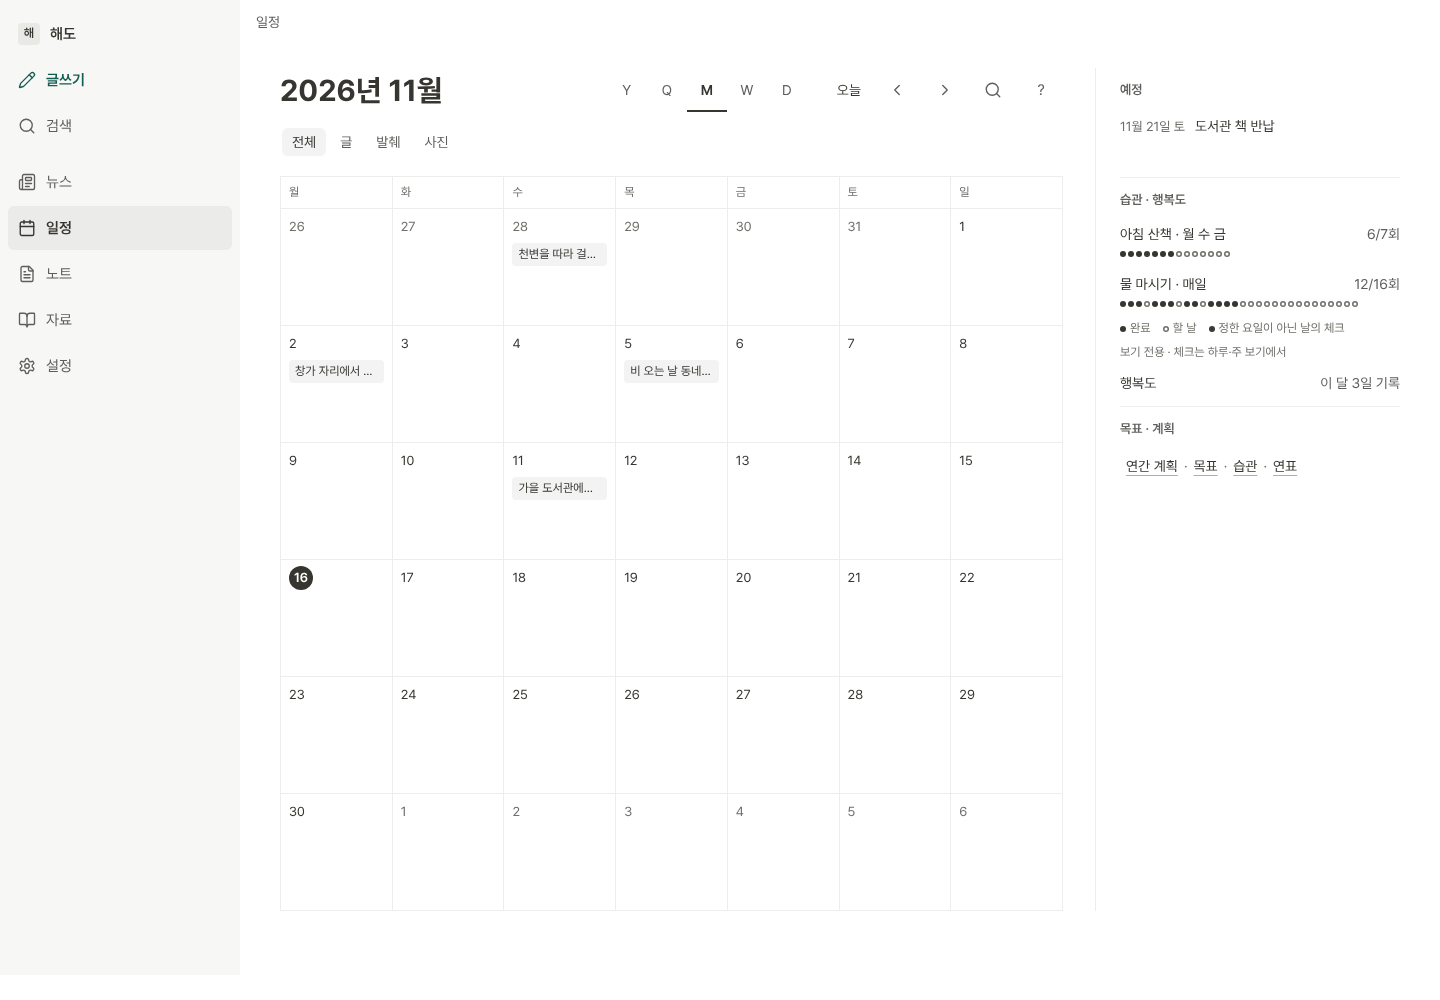
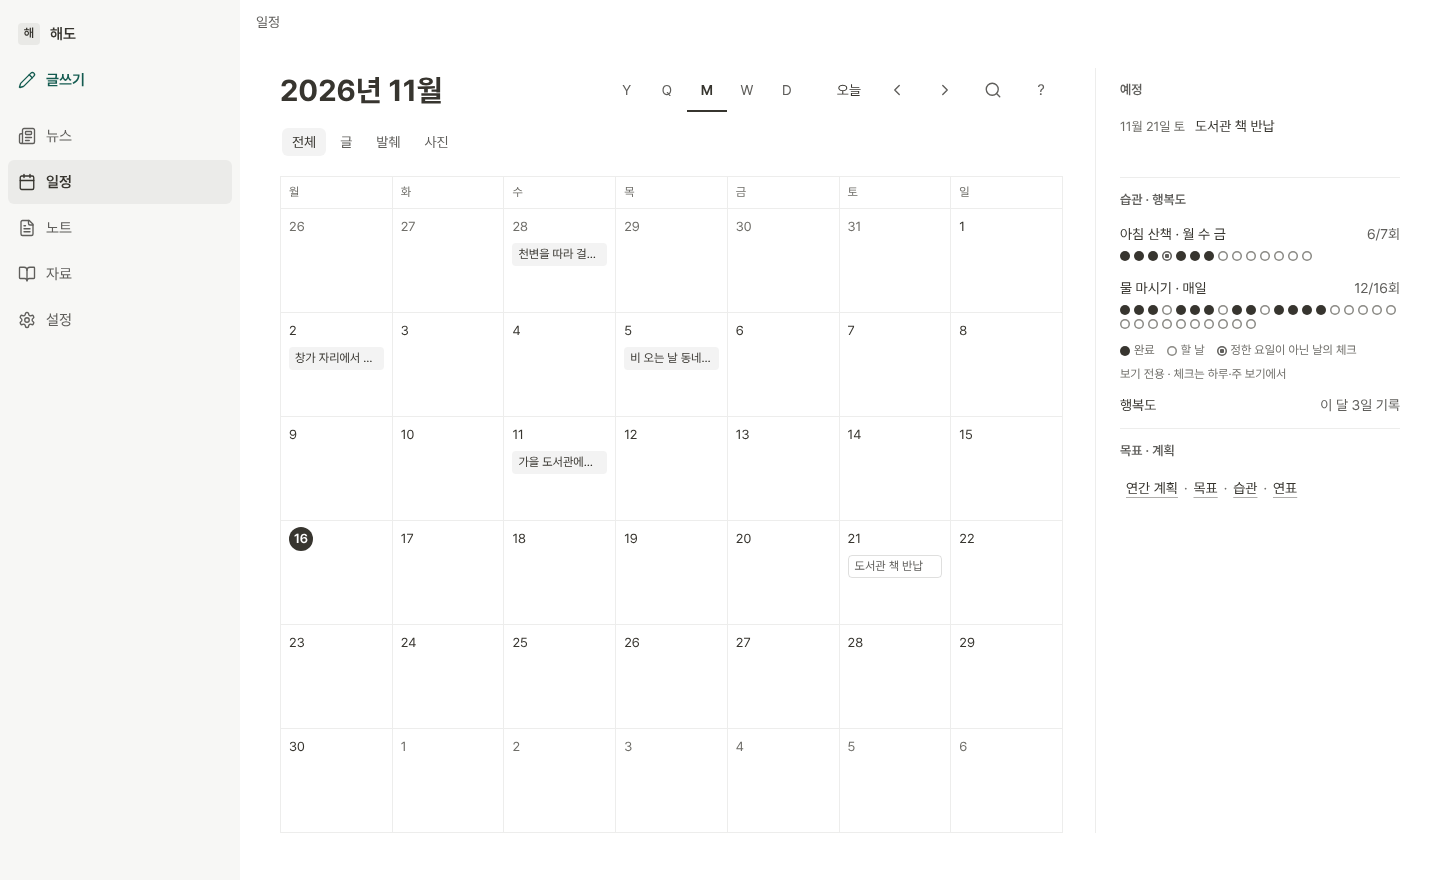
docs: 노션 방향 구현 계약 — 2차 검수 반영 (공개 페이지 범위, 배포 두 단계, 시안 PNG 정정)
- 공개 페이지 보호: 모양을 바꾸는 규칙은 haedo-shell.css나 body.haedo-shell 범위로,
  ui.css에는 대체값만.
- 시안 PNG: 메뉴의 검색 항목 제거, 1440 노트의 내 글 찾기 입력칸, 데스크톱 읽기 뒤로 버튼,
  자료 행 날짜·시각을 꼬리표 줄 끝으로, 습관 점 10px·상태 셋, 월 칸 예정 꼬리표.
  문장이 PNG보다 우선한다고 명시.
- W2 파일은 notes-menu 파일 전부 + 시각 파일, W3에 ui.js:2686 한 줄, 틸 재분류 주체,
  노트 행 시각 기준, 월 칸 이름은 dayLabel 그대로, 320px 읽기 도구, 배포 두 단계와 CACHE.

Claude-Session: https://claude.ai/code/session_01GFNZYifi77pdz4rK7ARgPc

diff --git a/docs/design-review/notion-visual-contract.md b/docs/design-review/notion-visual-contract.md
@@ -8,12 +8,15 @@
 - **시안:**
   - 저장소: [notion-direction/](notion-direction/)의 `mock-*.png` 8장
   - 비교 화면: Design 캔버스 「해도 노션 방향 시안」(소유자 계정의 비공개 artifact). 지금 화면과 시안을 나란히 둔다.
+  - **이 문서의 문장이 PNG보다 우선한다.** 그림의 문구·숫자는 예시다.
 - **다른 계약과의 관계:**
   - 화면 구조(메뉴 5칸, 노트, 일정은 달력만, 주소)는 [노트 메뉴·일정 정리 계약](notes-menu.md)을 따른다. 이 문서는 그 위에 입히는 **시각 규칙**이다.
   - 둘이 어긋나면 구조는 notes-menu, 모양은 이 문서를 따른다.
   - 11-02 글쓰기·읽기 결정([write-read-redesign](write-read-redesign.md), [expert-design-brief](expert-design-brief.md) 결정표)과 11-08 계약 중 남은 것(계획 화면 틀, 저장 상태 문구, 화면의 날짜)은 그대로다.
-- **독립 검수:** 첫 초안(`1522d97`)을 다른 에이전트가 검수했다. MAJOR 10·MINOR 13·NIT 4건이 나왔고 모두 이 판에 반영했다.
-  - 이 판은 그 검수를 반영한 판이다. 작업자에게 넘기기 전에 총괄이 한 번 더 확인한다.
+- **독립 검수:** 다른 에이전트가 두 번 검수했다.
+  - 1차(`1522d97`): MAJOR 10·MINOR 13·NIT 4건 → 반영
+  - 2차(`ce98036`): 앞 27건 중 22건 해결·5건 부분, 새 MAJOR 2·MINOR 7·NIT 4건 → 모두 이 판에 반영
+  - 작업자에게 넘기기 전에 총괄이 한 번 더 확인한다.
 
 ## Designer 기본값 (소유자가 바꿀 수 있음)
 
@@ -43,7 +46,7 @@
   - 저장 형식·동기화·공개·백업 로직과 데이터 키
   - 문구의 뜻(보존 문구), 행동의 추가·삭제·이름 바꾸기
   - 노션 기능, 움직임 규칙(`haedo-motion`)
-  - `sw.js` CACHE 판올림(총괄이 병합 때 한다)
+  - `sw.js` CACHE 판올림(총괄이 배포 때 한다)
 
 ## 토큰 (`assets/haedo-shell.css` `:root`, `assets/haedo-type.css`)
 
@@ -80,11 +83,13 @@
   - 검색 칸 안쪽 입력은 `border:0`(`ui.css:91`)이라 바깥 칸이 `--field-line` 테두리를 가져야 한다.
 - **`--soft` 사용처 점검:** 셸에서 `--soft`는 `--haedo-selected`를 가리킨다(`haedo-shell.css:10`). 눌림·현재·일치 표시(`ui.css:58,98,109,116,124,202,349,357`, `workbench.css` 여러 곳)가 함께 옅어진다.
   - 각 사용처를 분류해 보고한다: 두 번째 표시를 더할 곳, `--haedo-mark`로 갈 곳, 그대로 둘 곳.
-- **틸 사용처 분류:** `var(--color-primary)` 136곳과 `var(--haedo-accent)` 36곳을 아래 "틸 규칙"에 따라 "유지 / 먹색으로"로 나눈 표를 만들어 보고한다.
+- **틸 사용처 분류:** `var(--color-primary)` 136곳과 `var(--haedo-accent)` 36곳을 아래 "틸 규칙"에 따라 "유지 / 먹색으로"로 나눈 표를 만든다.
+  - 표는 W1이 만들고, W1은 자기 파일만 고친다. W2–W4는 자기 담당 파일에서 표대로 고치고, 나머지는 W5가 고친다.
   - 링크의 실제 색은 `ui.css:23` `a{color:var(--color-primary)}`이다. 글 안 링크만 먹색 + 밑줄(`rgba(55,53,47,.4)`, 오프셋 4px)로 바꾼다. 행·메뉴 모양의 링크는 행 규칙을 따른다.
 - **공개 페이지 보호:**
-  - 공개 페이지는 `ui.css`만 읽고 `haedo-shell.css`는 읽지 않는다. 그래서 새 값은 `haedo-shell.css`에만 둔다.
-  - `ui.css`의 별칭은 지금 값을 대체값으로 유지한다(예: `var(--haedo-canvas, #f4f6f5)`). 대체값 없는 `var(--haedo-*)`로 바꾸지 않는다.
+  - 공개 5쪽은 `ui.css`만 읽고 `haedo-shell.css`는 읽지 않는다. `body`에 `haedo-shell` 클래스도 없다(`blog.html`·`series.html`·`share.html`은 맨 `<body>`, `cover.html`은 `public-cover-page`, `taste.html`은 `nine-public-page`).
+  - 그래서 **모양을 바꾸는 규칙은 `haedo-shell.css`에 두거나 `ui.css` 안에서 `body.haedo-shell` 범위로 쓴다.** 위의 `a` 색, `--soft` 사용처, `mark`가 모두 여기에 해당한다.
+  - `ui.css`의 범위 없는 규칙에는 대체값만 더한다. 예: `var(--haedo-mark, <지금 값>)`, `var(--haedo-canvas, #f4f6f5)`. 대체값 없는 `var(--haedo-*)`로 바꾸지 않는다.
   - 공개 검사(`blog-public-browser`, `public-cover-visual-browser --prepare-database`, `nine-public-browser`, `blog-series-public-browser`)와 전·후 캡처로 공개 화면이 바뀌지 않았음을 보인다.
 
 ## 틸 규칙
@@ -124,12 +129,12 @@
   - 현재 칸은 먹색 600이고 나머지는 `--haedo-meta` 400이다. 아이콘 20px, 라벨 12px.
   - 각 칸 44px 이상이고 320px에서 라벨이 잘리지 않아야 한다(지금 좌우 여백 `max(12px,…)` 기준, notes-menu 문장과 같다).
 - **노트 아이콘:**
-  - Lucide 1.51.0 `file-text`를 새로 넣는다.
+  - Lucide 1.51.0 `file-text`를 새로 넣는다. `icons.js`의 글리프 이름은 `note`로 정한다. W1이 넣고, W2는 메뉴 항목에 `glyph: 'note'`로 쓴다.
   - `vendor/lucide/icons/`에 원본 SVG를 두고, `vendor/lucide/UPSTREAM.json`의 `files`(또는 `npm_subset.files`)에 SHA-256과 함께 적는다. 그래야 `tests/icons.test.cjs`가 통과한다.
   - 판에 그 아이콘이 없으면 Designer에 알리고 멈춘다. 다른 판에서 가져오지 않는다.
 - **머리줄:**
   - **데스크톱:** 머리줄 높이 44px. 왼쪽은 경로(14px `--haedo-muted`, 예: `노트 › 빛이 길게 머무는 오후`)이고, 오른쪽은 행동이다. 화면 제목은 본문 맨 위 큰 제목(`--haedo-text-page-title`, 700)이다.
-  - **760px 이하:** 지금처럼 한 줄 머리(제목 28px 700 + 오른쪽 아이콘)다.
+  - **1100px 이하(좁은 세로 메뉴·iPhone):** 지금처럼 한 줄 머리(제목 28px 700 + 오른쪽 아이콘)다.
   - **머리 오른쪽 아이콘은 `글쓰기`를 빼고 최대 3개다:** [화면 고유 행동 0–1개] · `통합 검색`(`#lifeFindOpen`, 이름 그대로) · `⋯`. 나머지 행동은 `⋯`로 옮기고 지우지 않는다.
   - 일정의 단위 탭·`오늘`·`‹ ›`는 이 상한 밖의 탐색 묶음이다. `단축키 (?)`(`schedule-ui.js:686`)는 데스크톱에서 유지한다(키보드 도움말 보존).
   - iPhone의 `글쓰기`는 늘 맨 오른쪽이다.
@@ -145,7 +150,7 @@
   - 제목 16px 600(최대 2줄), 발췌 14px `--haedo-muted`(데스크톱 1줄·iPhone 2줄), 메타 한 줄 13px `--haedo-meta`, 행 사이 1px 선이다.
   - 행에 따로 할 일이 있으면 오른쪽 `⋯` 하나로 모은다.
 - **날짜 머리:** 13px 500 `--haedo-muted`, 위 28px.
-- **빈 상태:** 표나 상자 없이 한 줄 문장(14px `--haedo-meta`)과, 있으면 링크 하나다.
+- **빈 상태:** 표나 상자 없이 한 줄 문장(14px `--haedo-meta`)과, 있으면 행동 하나(링크, 또는 노트의 `첫 글 쓰기` 버튼)다.
 - **메뉴(`⋯`)·시트:**
   - 흰 바탕, 1px 선, 그림자 `0 0 0 1px rgba(15,15,15,.05), 0 3px 6px rgba(15,15,15,.1), 0 9px 24px rgba(15,15,15,.2)`, 모서리 8px, 항목 44px.
   - **초점 복귀:** `⋯` 안으로 옮긴 조작은 Esc나 실행 뒤 초점을 **그 `⋯` 버튼**(행 메뉴면 그 행의 제목 버튼)으로 돌린다.
@@ -159,26 +164,31 @@
   - 그 아래 `작성하던 글 · 제목 · 이어쓰기` 한 줄을 `--haedo-soft` 바탕으로 둔다.
   - 그다음 날짜 머리(처음 쓴 날, 결정 8)와 행이 온다.
   - 머리는 `통합 검색` · `글 메뉴`(⋯: 글 공개·보관, 계정 보관 상태, 프로필 편집)와 iPhone `글쓰기`다.
-  - 행 메타는 시각 + 공개 표시 문구 그대로다.
+  - 행 메타는 `처음 쓴 시각 · (나중에 고친 글이면 지금 문구 그대로 `수정 11월 11일`) · 공개 표시 문구`다. 날짜 머리와 같은 기준(결정 8)이다.
+    - 지금 왼쪽 시각 칸은 `updatedAt`(`home.js:358`)이라 바뀐다. notes-menu 작업자가 이 기준으로 함께 정하고, 다르게 정하면 Designer에 알린다.
+  - 데스크톱의 `내 글 찾기`는 탭 줄 오른쪽의 입력칸이다(761px 이상 입력칸, `DESIGN.md` 홈 절과 11-08 S3). 760px 이하는 지금처럼 탭 옆 조작으로 펼친다. 돋보기 아이콘은 머리의 `통합 검색` 하나다.
 - **일정(모든 단위 같은 틀):**
   - **데스크톱 머리:** 제목(`2026년 11월` 등), 단위 글자 탭, `오늘`, `‹ ›`, `통합 검색`, `단축키 (?)`. 그 아래 거르기 `전체 · 글 · 발췌 · 사진`, 본문, 옆 칸(280px, 왼쪽 1px 선)이 온다.
   - **M 칸:**
     - 1px 선 격자, 칸 높이 104px, 날짜 13px. 오늘은 24px 먹색 원에 흰 글자다.
-    - 칸 전체가 하나의 링크(44px 이상)다. **접근 이름은 지금 `dayLabel`(요일·예정 수·선택·오늘, `schedule-ui.js:428-443`) 그대로**에 글 수만 더한다.
+    - 칸 전체가 하나의 링크(44px 이상)다. **접근 이름은 지금 `dayLabel` 그대로**다(`schedule-ui.js:428-443`). 이미 요일·글·발췌 수(`schedule-data.js` `countLabel`)·예정 수·선택·오늘을 담으므로 더하지 않는다.
     - 칸 안의 글·예정 줄(`:452-454`)은 회색 꼬리표 모양이고 따로 누르지 않는다.
   - **iPhone:**
     - 단계 막대가 없다(소유자 결정). `‹ 2026`(연으로), `통합 검색`, `글쓰기`가 한 줄이고, 제목과 `오늘 ‹ ›`가 한 줄이다.
     - 날짜 44px, 오늘 32px 먹색 원, 글 있는 날 4px 먹색 점이다.
   - **옆 칸 순서:** `예정 → 습관 · 행복도 → 목표 · 계획`(notes-menu).
   - **월 보기 습관 표**(`habit-tracker.js` `renderCompact`, `habit-tracker.css`):
-    - 지금 상태값 셋을 그대로 쓴다. `done` 채움, `planned` 1.5px `--haedo-meta` 테두리, `kept` 테두리 + 가운데 점. 과거/미래를 새로 나누지 않는다.
+    - 지금 상태값 셋과 점 크기 10px(`habit-tracker.css:69`)를 그대로 쓴다. `done` 먹색 채움, `planned` 1.5px `--field-line` 테두리, `kept` 1.5px `--haedo-muted` 테두리 + 가운데 4px 점이다. 과거/미래를 새로 나누지 않는다.
     - 범례 문구는 그대로다(`완료` · `할 날` · `정한 요일이 아닌 날의 체크`). 여기에 `보기 전용 · 체크는 하루·주 보기에서`를 더한다(결정 13).
 - **글 읽기(11-02 결정과 D1 배치 유지):**
   - **도구 줄:** 한 줄이다. `뒤로` · 공개 알약(Lucide `lock`, 지금 `글 정보` 동작과 문제 표시 그대로) · `수정`(숨긴 글이면 `목록에 다시 보이기`) · `통합 검색` · `⋯` · iPhone `글쓰기`.
-    - 머리줄 통합은 이미 코드에 있다(`ui.js:2678-2688`, `13ba336`). 다시 만들지 않는다.
+    - 데스크톱도 `뒤로` 버튼(지금 돌아가기 버튼, 이름 그대로)을 두고, 그 오른쪽에 경로를 둔다.
+    - 360px 미만에서는 `수정`을 아이콘(`edit`)만으로 보이고 이름 `수정`은 유지한다. 그래야 320px에서도 한 줄이다.
+    - 머리줄 통합은 이미 코드에 있다(`ui.js:2678-2688`, `13ba336`). 다시 만들지 않는다. 다만 `통합 검색`이 `⋯` 뒤에 붙는 한 줄(`ui.js:2686`의 append)은 W3가 `⋯` 앞으로 고친다. 이 한 줄만 W3 담당이다.
     - 지금 줄에 따로 보이는 `사진 포함 백업`은 `⋯` 안으로 옮긴다. 순서는 `사진 포함 백업` → (지금 메뉴 항목) → `삭제`(맨 아래)다.
   - **본문:** 제목 바로 아래 본문이다. **제목과 본문 사이에는 아무것도 두지 않는다.** 제목은 편집기와 같은 28px다.
   - **글 끝 줄:** 1px 선 아래에 지금처럼 날짜(`updatedAt`), `숨긴 글`·`초안` 표시, 저장 상태(`#photoServerStatus`, role=status)와 `다시 시도`, `내 글로 돌아가기`를 둔다. 모양만 새 토큰을 쓰고 버튼은 44px이다.
+    - 평소 저장 상태(`저장됨 · 계정에 올림`)를 글 끝에 늘 보이는 것은 D1의 판단이다. 11-02 시안의 "평소 숨김"(`write-read-redesign.md:42`)과 다르지만 이번에는 바꾸지 않는다.
 - **자료:**
   - **머리:** `가져오기`(이름 그대로) · `통합 검색` · `⋯`(`기록 선택`, 폴더 관리) · `글쓰기`.
     - 데스크톱 `가져오기`는 지금처럼 라벨이 붙고, iPhone은 아이콘만이다.
@@ -186,7 +196,7 @@
   - **탭과 개수 줄:**
     - 탭 `전체 N · 원문 · 발췌 · 기사` 오른쪽에 폴더 선택을 둔다.
     - **개수 줄 `#lifeSearchCount`(role=status)는 그대로 두고** 탭 아래 13px 메타로 모양만 바꾼다. 다음 문구가 모두 남아야 한다: `· 최신 버전`·`· 일치한 버전별 결과`·원천·`· 한글 띄어쓰기 무시`·`· N개 표시`.
-  - **행:** 제목 1줄, 발췌 2줄, 꼬리표 줄, 오른쪽 `⋯`(`자료 출처 정보`, 폴더)다.
+  - **행:** 제목 1줄, 발췌 2줄, 꼬리표 줄, 오른쪽 `⋯`(`자료 출처 정보`, 폴더)다. 왼쪽 날짜·시각 칸(`RecordsList.when`)은 내용 그대로 꼬리표 줄 끝으로 옮긴다. 날짜 머리로 묶지 않는다.
     - 꼬리표 줄에는 원천과 **사실 표시를 모두 남긴다**: `본문 일부`·`본문 미확보`·`범위 미확인`, `버전 n/m`, `이전 버전`, `제목 일치`, `저장한 문장·메모 일치`(`ui.js:4111-4116`, `:4352-4362`).
     - 문장·메모 목록도 그대로다. URL만 있는 자료를 본문 확보로 보이지 않는다.
 - **뉴스·설정:**
@@ -222,13 +232,17 @@
 
 | 단위 | 맡을 곳 | 파일 | 선행 | 고칠 검사(알려진 것) |
 | --- | --- | --- | --- | --- |
-| **W1 바탕·토큰** | Designer 구현 · 다른 에이전트 검수 | `haedo-shell.css`, `haedo-type.css`, `ui.css`(토큰 별칭·채움 이전·`a` 색·`--soft` 사용처), `home.css`·`workbench.css`의 채움 줄만, `icons.js`, `vendor/lucide/`(`file-text`), `DESIGN.md`(`:143`·`:145`·`:174`·`:186` 등 틀·색 문장), `.impeccable/design.json` | 없음 | `unified-home-browser.cjs:442`(글쓰기 흰 글자·틸 바탕), `app-motion-browser.cjs:160`(현재 탭 750·틸), `habit-tracker-browser.cjs:118`·`:135`·`:298`(옛 먹색 `rgb(24, 37, 34)`·750), `sns-blog-experience-browser.cjs:105`(메뉴 폭 216), `tests/icons.test.cjs` |
-| **W2 노트·일정 본문** | notes-menu 작업자(구조와 한 번에, **커밋은 구조 → 시각으로 나눈다**) | `home.js`, `home.css`(W1 줄 제외), `schedule.css`, `schedule-entries.js`, `schedule-ui.js`, `schedule-data.js`, `habit-tracker.js`, `habit-tracker.css`, `haedo-navigation.js`, `ui.js` `renderHeader`의 노트·일정 가지(`scheduleParts`, `글 메뉴` 위치) | W1 | `life-naver-capture-browser.cjs:509`(`.home-post-read` → 제목 버튼), `.home-post-media`를 쓰는 `home-refinement`·`home-startup-performance`·`post-markdown-thumbnails`, 프로필 줄을 쓰는 `home-refinement`·`sns-blog-experience`·`blog-user-journeys`·`feature-flow`, 일정 검사들, `habit-tracker-browser` |
-| **W3 글 읽기** | 작업자 | `photo-post-ui.js`, `photo-post.css` (`ui.js`는 고치지 않는다) | W1 | `sns-blog-experience-browser.cjs:224`, `minor-defects-ui-browser.cjs:127`·`:157`(보이는 `사진 포함 백업` → `⋯` 안), `photo-post-d1-browser`, `subview-navigation-browser` |
+| **W1 바탕·토큰** | Designer 구현 · 다른 에이전트 검수 | `haedo-shell.css`, `haedo-type.css`, `ui.css`(토큰 별칭·채움 이전·`a` 색·`--soft` 사용처), `home.css`·`workbench.css`의 채움 줄만, `icons.js`, `vendor/lucide/`(`file-text`), `DESIGN.md`(`:143`·`:145`·`:174`·`:186` 등 틀·색 문장), `.impeccable/design.json` | 없음 | `unified-home-browser.cjs:442`(글쓰기 흰 글자·틸 바탕), `app-motion-browser.cjs:160`(현재 탭 750·틸), `habit-tracker-browser.cjs:135`·`:298`(옛 먹색 `rgb(24, 37, 34)`), `sns-blog-experience-browser.cjs:105`(메뉴 폭 216), `tests/icons.test.cjs` |
+| **W2 노트·일정 본문** | notes-menu 작업자(구조와 한 번에, **커밋은 구조 → 시각으로 나눈다**) | **notes-menu가 정한 파일 전부**(탐색·주소·`manifest.webmanifest` `start_url`·`subviewTitles`·돌아가기 이름 등) + 시각 파일 `home.js`, `home.css`(W1 줄 제외), `schedule.css`, `schedule-entries.js`, `schedule-ui.js`, `schedule-data.js`, `habit-tracker.js`, `habit-tracker.css`, `ui.js` `renderHeader`의 노트·일정 가지 | W1 | `habit-tracker-browser.cjs:118`(오늘 표시 750·틸), `life-naver-capture-browser.cjs:509`(`.home-post-read` → 제목 버튼), `.home-post-media`를 쓰는 `home-refinement`·`home-startup-performance`·`post-markdown-thumbnails`, 프로필 줄을 쓰는 `home-refinement`·`sns-blog-experience`·`blog-user-journeys`·`feature-flow`, 일정 검사들, `habit-tracker-browser` |
+| **W3 글 읽기** | 작업자 | `photo-post-ui.js`, `photo-post.css`, `ui.js:2686`의 한 줄(`통합 검색` 자리)만 | W1 | `sns-blog-experience-browser.cjs:224`, `minor-defects-ui-browser.cjs:127`·`:157`(보이는 `사진 포함 백업` → `⋯` 안), `photo-post-d1-browser`, `subview-navigation-browser` |
 | **W4 자료·뉴스·설정** | 작업자 | `ui.js` `renderHeader`의 자료 가지(`:2648-2675`)·`featureMenu`(`:2790`)·자료 목록과 행(`:4100-4430` 부근), `records-list.js`, `source-folders-ui.js`, `source-folders.css`, `records.css`, `discovery-ui.js`, `discovery.css`, `settings-ui.js`, `settings.css` | W1, **W2 병합 뒤**(`ui.js` 순서) | `#lifeSearchCount`: `search-quality-browser.cjs:75`·`:96`, `obsidian-reading-scale-browser.cjs:60`, `life-collections-browser.cjs:152`, `source-merge-browser.cjs:262`. `news-card-feed-browser.cjs:348`(사진 모서리 14px). `settings-browser`. `가져오기`·`기록 선택`·`통합 검색`을 쓰는 검사는 이름을 유지하므로 깨지지 않아야 한다 |
 | **W5 마무리** | Designer 구현 · 다른 에이전트 검수 | W1–W4 밖의 CSS(`workbench.css`, `platform.css`, `timeline-shell.css` 등)의 굵기 750·650·550·450과 옛 모서리를 토큰으로. **예외:** 습관 확인 칸 12px, 데이터 색, 공개 페이지 CSS | W2–W4 병합 | 통합본에서 아래 검사 전체 |
 
 - **순서:** W1 → W2(notes-menu와 함께) → W4. W3는 W1 뒤 언제든 할 수 있다. 그다음 W5, 그리고 총괄 병합이다.
+- **배포는 두 번이다.** 단위마다 main에 넣으면 반쯤 바뀐 화면이 나가므로 단계별 통합 브랜치(총괄이 정함)에 모은다.
+  - **1단계 배포:** W1 + W2(notes-menu 포함)를 모아 통합 검수 뒤 배포한다. 소유자는 이때 노트와 일정을 실기기에서 먼저 써 본다(방향 문서의 "한 화면 먼저" 방안).
+  - **2단계 배포:** W3 + W4 + W5를 모아 같은 절차로 배포한다.
+  - 배포마다 총괄이 `sw.js` CACHE를 한 번 올린다.
 - **notes-menu와 묶는 이유:**
   - 노트·일정 파일을 구조와 시각으로 두 번 고치면 충돌과 검사 수정이 두 배가 된다.
   - 그래서 notes-menu 구현은 W1 병합을 기다린다. W1이 늦으면 구조를 먼저 하고 시각 커밋을 W1 뒤에 더한다.
@@ -238,7 +252,7 @@
   - 병합과 통합은 총괄이 하고, 작업자 커밋의 작성자를 보존한다. Designer는 디자인 최종 판단을 한다.
   - 독립 검수자는 그 단위의 구현자가 아닌 에이전트다. W1·W5는 Designer가 구현하므로 다른 에이전트가 검수한다.
 - **총괄의 병합 할 일(작업자 금지 범위):**
-  - `sw.js` CACHE 판올림, 새 브라우저 검사의 CI 등록
+  - 배포마다 `sw.js` CACHE 판올림, 새 브라우저 검사의 CI 등록
   - AGENTS 스킬 절의 시각 체계 문장("흰 읽기 면·옅은 초록 회색 캔버스·짙은 틸 조작…·실제 사진 피드") 갱신
   - `.agents/skills/life-haedo-design/SKILL.md:32`, `.agents/skills/unslop/INSTALLATION.md:27`의 초록 캔버스·틸 문장 갱신
 - **진행 중인 작업과의 충돌:** 총괄 기록상 notes-menu는 "작업자 A·C 병합 뒤"다. W1은 공통 CSS가 중심이라 A·C와 겹칠 가능성이 낮지만, 착수 시점은 총괄이 정한다.
